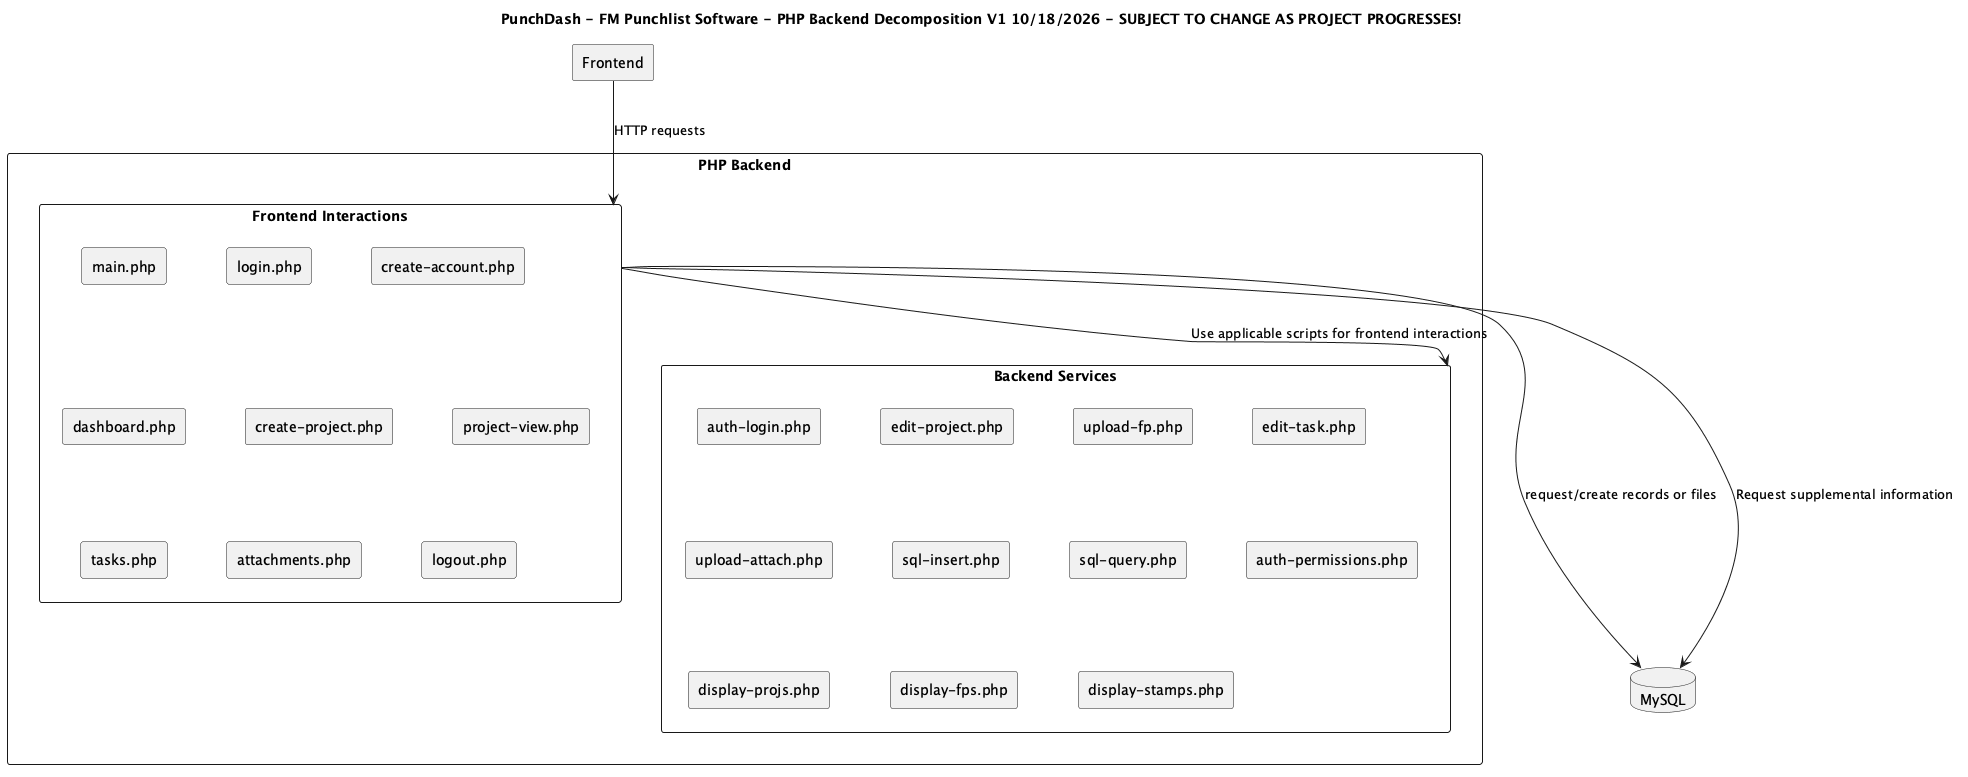
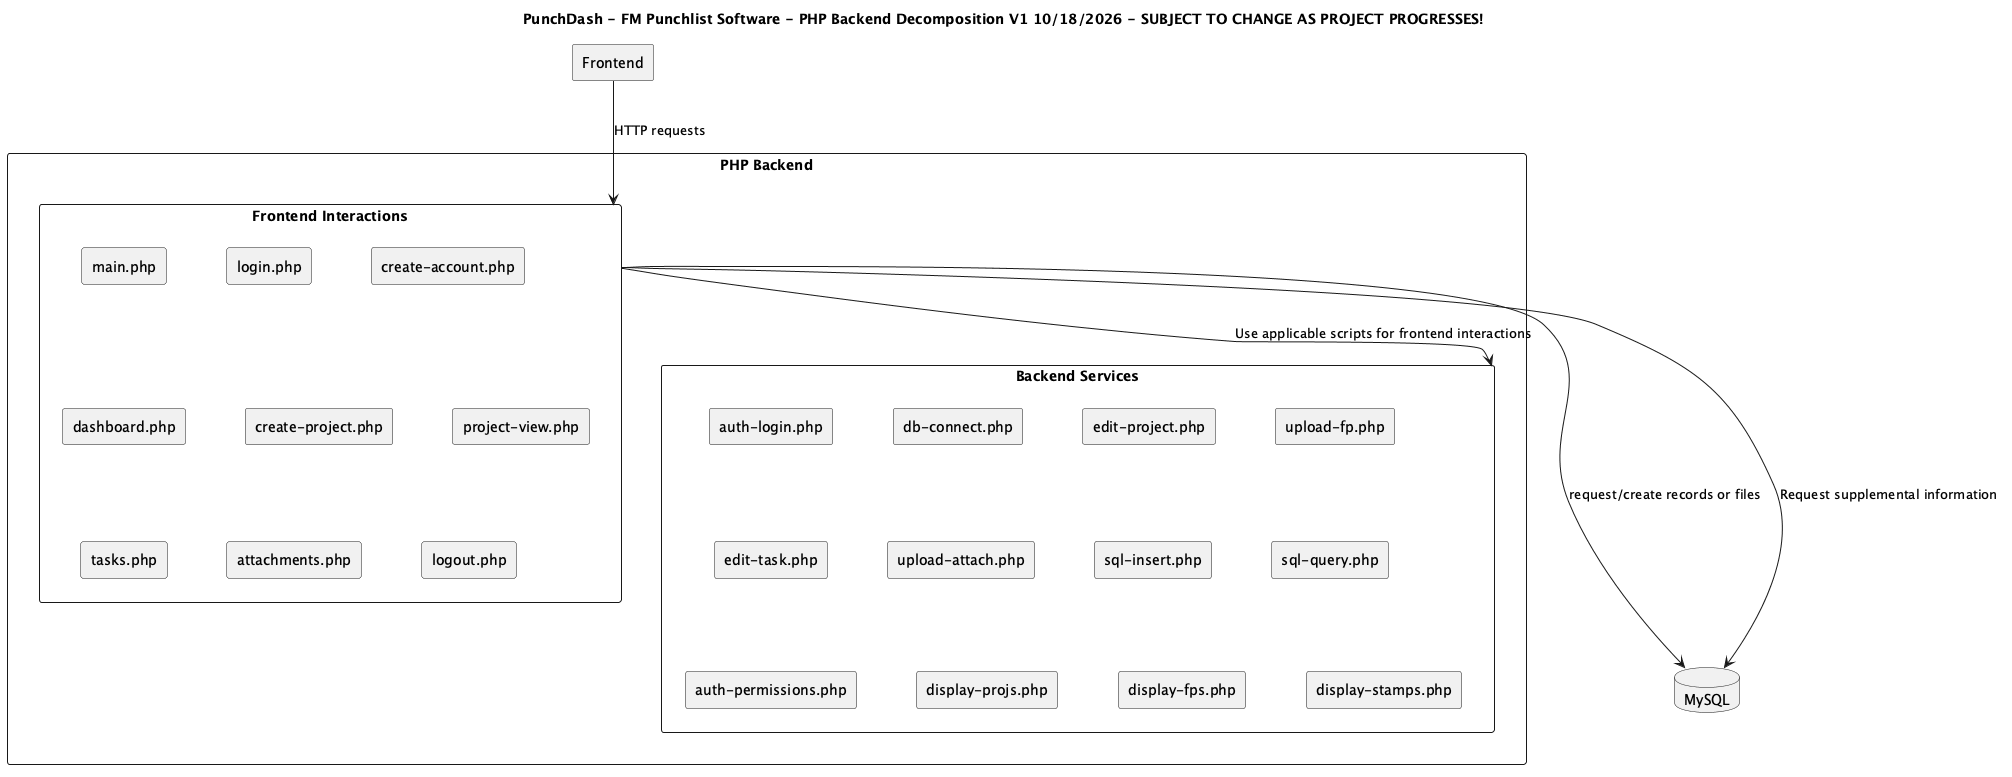
php updates

diff --git a/PHP/frontend/login.php b/PHP/frontend/login.php
@@ -1,0 +1,62 @@
+<?php
+ini_set('display_errors', 1);
+error_reporting(E_ALL);
+session_start();
+require __DIR__ . '/../services/db-connect.php';
+require __DIR__ . '/../services/auth-login.php';
+
+//redirect if logged in
+if (isset($_SESSION['uid'])) {
+    header('Location: dashboard.php');
+    exit;
+}
+
+$error = '';
+$email = '';
+
+if ($_SERVER['REQUEST_METHOD'] === 'POST') {
+    $email    = trim($_POST['email'] ?? '');
+    $password = $_POST['password'] ?? '';
+
+    if ($email === '' || $password === '') {
+        $error = 'Please enter your email and password.';
+    } else {
+        $user = login_user($pdo, $email, $password);
+
+        if ($user) {
+            session_regenerate_id(true);
+            $_SESSION['uid'] = $user['uid'];
+            header('Location: dashboard.php');
+            exit;
+        }
+        $error = 'Invalid email or password.';
+    }
+}
+?>
+<!DOCTYPE html>
+<html lang="en">
+<head>
+    <meta charset="UTF-8">
+    <meta name="viewport" content="width=device-width, initial-scale=1">
+    <title>PunchDash - Log In</title>
+</head>
+<body>
+    <h1>PunchDash</h1>
+
+    <?php if ($error !== ''): ?>
+        <p style="color:#b00020;"><?= htmlspecialchars($error) ?></p>
+    <?php endif; ?>
+
+    <form method="post" action="login.php">
+        <label>Email
+            <input type="email" name="email" value="<?= htmlspecialchars($email) ?>" required>
+        </label><br>
+        <label>Password
+            <input type="password" name="password" required>
+        </label><br>
+        <button type="submit">Log In</button>
+    </form>
+
+    <p><a href="create-account.php">Create Account</a></p>
+</body>
+</html>

diff --git a/PHP/services/auth-login.php b/PHP/services/auth-login.php
@@ -1,0 +1,15 @@
+<?php
+//checks login info with db
+function login_user(PDO $pdo, string $email, string $password): ?array
+{
+    $stmt = $pdo->prepare(
+        'SELECT uid, passhash, fname, lname, permissions FROM users WHERE email = ?'
+    );
+    $stmt->execute([$email]);
+    $user = $stmt->fetch();
+
+    if ($user && password_verify($password, $user['passhash'])) {
+        return $user;
+    }
+    return null;
+}

diff --git a/PHP/services/db-connect.php b/PHP/services/db-connect.php
@@ -1,0 +1,11 @@
+<?php
+// init db connection
+$pdo = new PDO(
+    'mysql:host=localhost;dbname=punchdash-db;charset=utf8mb4',
+    'root',
+    '',
+    [
+        PDO::ATTR_ERRMODE            => PDO::ERRMODE_EXCEPTION,
+        PDO::ATTR_DEFAULT_FETCH_MODE => PDO::FETCH_ASSOC,
+    ]
+);

diff --git a/PHP/main.php b/PHP/main.php
@@ -1,0 +1,9 @@
+<?php
+session_start();
+
+if (isset($_SESSION['uid'])) {
+	header('Location: frontend/dashboard.php');
+} else {
+	header('Location: frontend/login.php');
+}
+exit;
